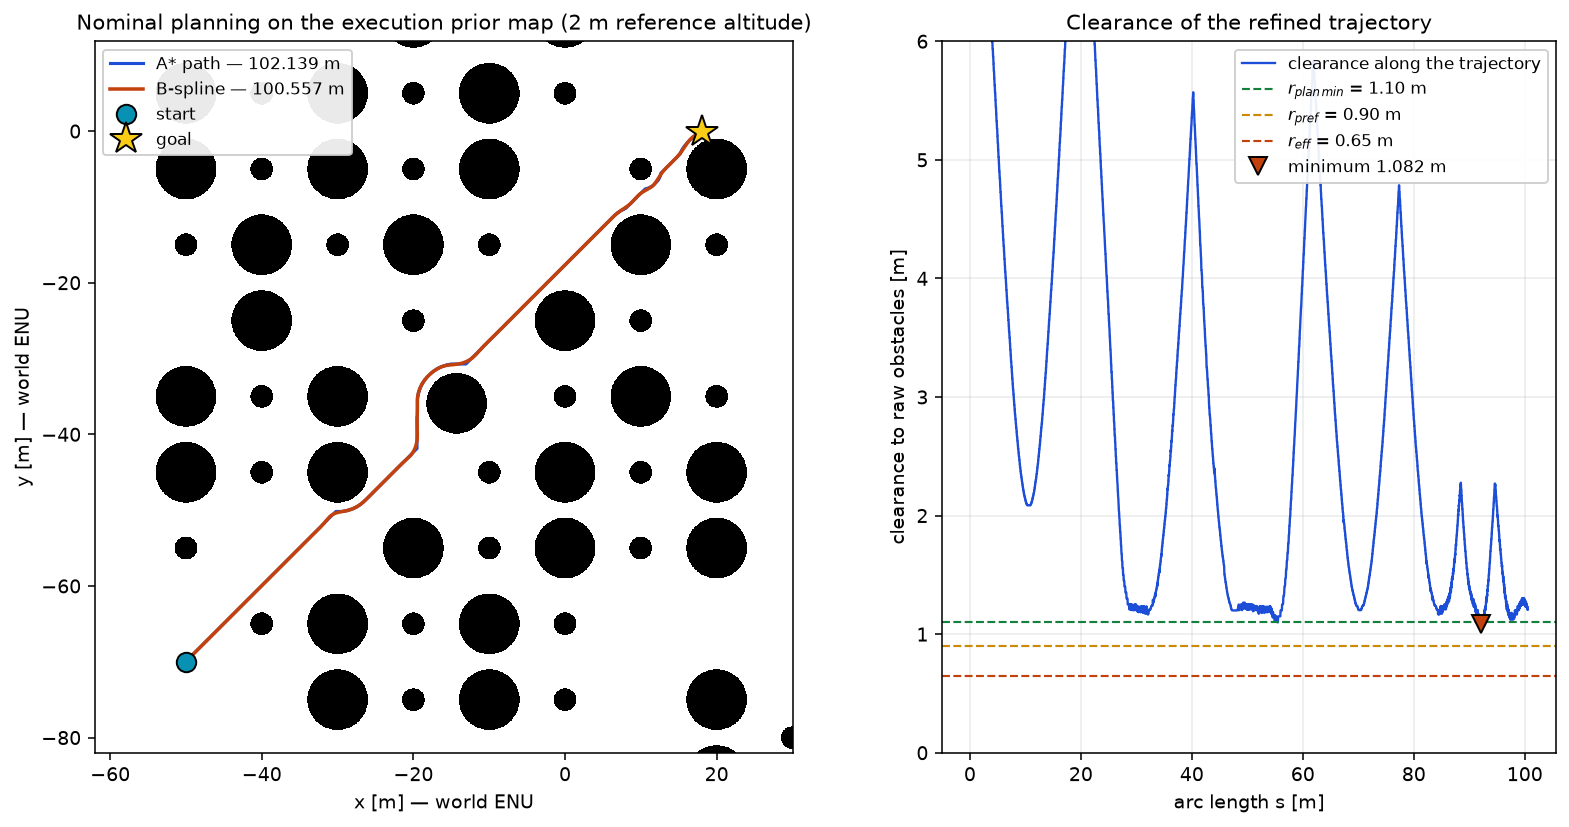
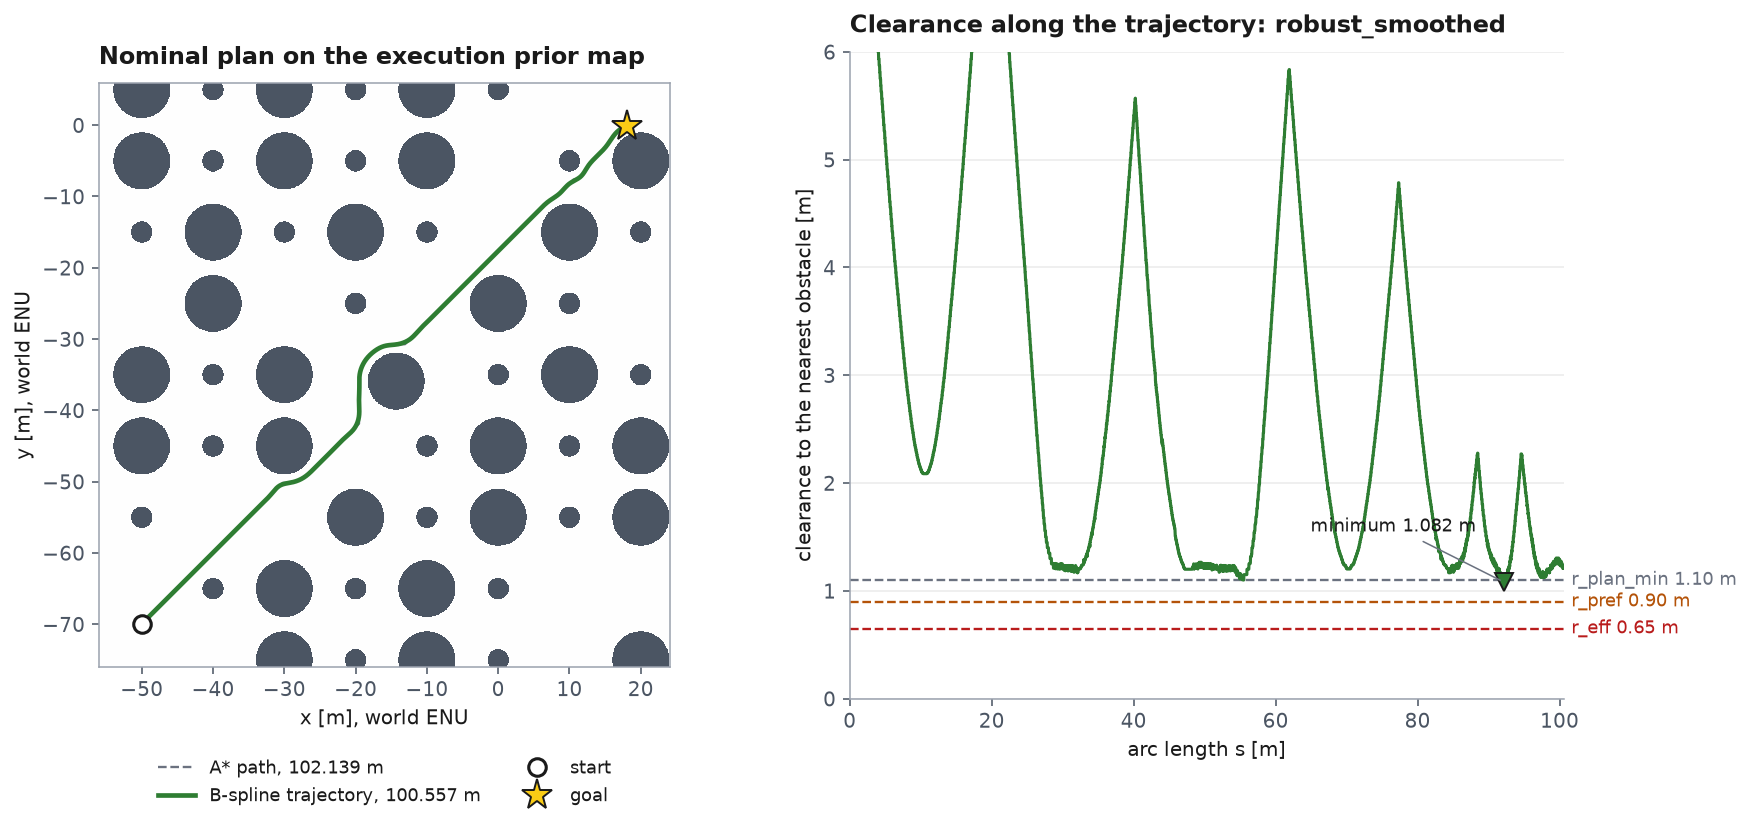
docs(figures): consistent layout and style for the two result figures
Both result figures now share one size, layout and palette (the palette of
architecture.drawio): map on the left with its legend below, profiles on the
right. The README shows them stacked at full width instead of side by side
at 49 % each, where the landscape and portrait images rendered at very
different heights and the small text was unreadable.

- nominal_planning.png: clearance thresholds labelled on the lines instead
  of in a legend; classification in the panel title.
- srr_geometry.png: landscape layout; the right side now shows the refined
  detour's speed and lateral acceleration against v_nominal and a_lat_max,
  taken from the same replanning result as the map.

make_docs_figures.py additionally checks the detour's peak lateral
acceleration and curvature against replan_runtime_metrics.yaml. No result,
planner or runtime code changed.

diff --git a/tools/make_docs_figures.py b/tools/make_docs_figures.py
@@ -8,7 +8,8 @@ produced, so they are auditable rather than opaque:
 1. ``nominal_planning.png`` - the A* path and the refined trajectory on the
    execution prior map, with the clearance profile. Regenerated from the SDF.
 2. ``srr_geometry.png`` - the Stop-Replan-Resume detour, sensed obstacle and
-   rejoin, reproduced offline from the published result bundle.
+   rejoin, with the refined detour's speed and lateral acceleration,
+   reproduced offline from the published result bundle.
 
 Both are derived from the same computations the reproduction tools run, so a
 figure can never drift away from the published numbers without those tools
@@ -43,6 +44,7 @@ sys.path.insert(0, str(REPO_ROOT / "src"))
 import matplotlib  # noqa: E402
 matplotlib.use("Agg")
 import matplotlib.pyplot as plt  # noqa: E402
+from matplotlib.colors import LinearSegmentedColormap  # noqa: E402
 from matplotlib.patches import Circle  # noqa: E402
 from PIL import Image  # noqa: E402
 
@@ -58,11 +60,45 @@ SRR = REPO_ROOT / "results" / "stop_replan_resume"
 CANOPY_M = {"Pine Tree": 1.5, "Oak tree": 4.0}
 SAVE = dict(dpi=140, bbox_inches="tight", metadata={"Software": None})
 
-INK = "#1b2430"
-MUTED = "#6b7785"
-ACCENT = "#c2410c"
-BLUE = "#1d4ed8"
-GREEN = "#15803d"
+# Same palette as docs/figures/architecture.drawio: green is the offline
+# result, blue the Stop-Replan-Resume result, grey an intermediate or a
+# reference, orange what the vehicle sensed.
+INK = "#1A1A1A"
+MUTED = "#6B7280"
+GREEN = "#2E7D32"
+BLUE = "#2F4FC9"
+ORANGE = "#C0501F"
+LIMIT = "#B91C1C"     # hard limit (r_eff, a_lat_max)
+PREF = "#B45309"      # soft target (r_pref)
+MAP_CMAP = LinearSegmentedColormap.from_list("prior_map", ["#4B5563", "#FFFFFF"])
+FIGSIZE = (13.5, 6.0)   # both figures share it, so they line up in the README
+
+plt.rcParams.update({
+    "font.size": 10.5, "axes.titlesize": 12.5, "axes.titleweight": "bold",
+    "axes.titlelocation": "left", "axes.titlepad": 10, "axes.labelsize": 10.5,
+    "axes.edgecolor": "#9CA3AF", "axes.labelcolor": INK, "text.color": INK,
+    "xtick.color": "#4B5563", "ytick.color": "#4B5563",
+    "legend.fontsize": 9.5, "legend.frameon": False,
+    "axes.spines.top": False, "axes.spines.right": False,
+})
+
+
+def _prior_map(ax, image, extent) -> None:
+    ax.imshow(image, cmap=MAP_CMAP, vmin=0, vmax=255, origin="upper",
+              extent=extent, interpolation="nearest")
+    for side in ("top", "right"):
+        ax.spines[side].set_visible(True)
+    ax.set_aspect("equal")
+    ax.set_xlabel("x [m], world ENU")
+    ax.set_ylabel("y [m], world ENU")
+
+
+def _hline(ax, y, color, text, ls="--") -> None:
+    """Reference line labelled at its right end instead of in a legend."""
+    ax.axhline(y, ls=ls, lw=1.2, color=color, zorder=1)
+    ax.annotate(text, xy=(1.0, y), xycoords=("axes fraction", "data"),
+                xytext=(4, 0), textcoords="offset points", va="center",
+                fontsize=9.5, color=color)
 
 
 def build_execution_prior():
@@ -128,46 +164,40 @@ def figure_nominal(path: Path) -> None:
                               sp=T.SpeedParams(1.5, 0.3, 1.0, 1.0))
     tr = sel.selected
 
-    fig = plt.figure(figsize=(13.5, 6.6))
-    gs = fig.add_gridspec(1, 2, width_ratios=[1.15, 1.0], wspace=0.22)
+    fig = plt.figure(figsize=FIGSIZE)
+    gs = fig.add_gridspec(1, 2, width_ratios=[1.0, 1.25], wspace=0.28)
 
     ax = fig.add_subplot(gs[0, 0])
     ox, oy = float(origin[0]), float(origin[1])
-    x1 = ox + geom.width_cells * res
-    y1 = oy + geom.height_cells * res
-    ax.imshow(image, cmap="gray", origin="upper",
-              extent=[ox, x1, oy, y1], interpolation="nearest")
-    ax.plot(xy[:, 0], xy[:, 1], lw=1.6, color=BLUE,
-            label=f"A* path — {P.path_length_metres(a.path_cells, res):.3f} m")
-    ax.plot(tr.samples_xy[:, 0], tr.samples_xy[:, 1], lw=1.8, color=ACCENT,
-            label=f"B-spline — {tr.trajectory_length_m:.3f} m")
-    ax.plot(*start_xy, "o", ms=10, color="#0891b2", mec="k", label="start")
-    ax.plot(*goal_xy, "*", ms=17, color="#facc15", mec="k", label="goal")
-    pad = 12
+    _prior_map(ax, image, [ox, ox + geom.width_cells * res, oy, oy + geom.height_cells * res])
+    ax.plot(xy[:, 0], xy[:, 1], lw=1.2, ls="--", color=MUTED,
+            label=f"A* path, {P.path_length_metres(a.path_cells, res):.3f} m")
+    ax.plot(tr.samples_xy[:, 0], tr.samples_xy[:, 1], lw=2.4, color=GREEN,
+            label=f"B-spline trajectory, {tr.trajectory_length_m:.3f} m")
+    ax.plot(*start_xy, "o", ms=9, color="white", mec=INK, mew=1.6, label="start")
+    ax.plot(*goal_xy, "*", ms=16, color="#FACC15", mec=INK, label="goal")
+    pad = 6
     ax.set_xlim(min(xy[:, 0].min(), start_xy[0]) - pad, max(xy[:, 0].max(), goal_xy[0]) + pad)
     ax.set_ylim(min(xy[:, 1].min(), start_xy[1]) - pad, max(xy[:, 1].max(), goal_xy[1]) + pad)
-    ax.set_aspect("equal")
-    ax.set_xlabel("x [m] — world ENU")
-    ax.set_ylabel("y [m] — world ENU")
-    ax.set_title("Nominal planning on the execution prior map (2 m reference altitude)",
-                 fontsize=11)
-    ax.legend(loc="upper left", fontsize=8.5, framealpha=0.92)
+    ax.set_title("Nominal plan on the execution prior map")
+    ax.legend(loc="upper center", bbox_to_anchor=(0.5, -0.13), ncol=2)
 
     ax2 = fig.add_subplot(gs[0, 1])
-    ax2.plot(tr.s, tr.clearance, lw=1.2, color=BLUE, label="clearance along the trajectory")
-    for val, col, lab in ((r_plan_min, GREEN, f"$r_{{plan\\,min}}$ = {r_plan_min:.2f} m"),
-                          (r_pref, "#ca8a04", f"$r_{{pref}}$ = {r_pref:.2f} m"),
-                          (r_eff, ACCENT, f"$r_{{eff}}$ = {r_eff:.2f} m")):
-        ax2.axhline(val, ls="--", lw=1.1, color=col, label=lab)
-    ax2.plot(tr.s[np.argmin(tr.clearance)], tr.clearance.min(), "v", ms=9,
-             color=ACCENT, mec="k",
-             label=f"minimum {tr.clearance_min_m:.3f} m")
-    ax2.set_xlabel("arc length s [m]")
-    ax2.set_ylabel("clearance to raw obstacles [m]")
+    ax2.plot(tr.s, tr.clearance, lw=1.6, color=GREEN)
+    _hline(ax2, r_plan_min, MUTED, f"r_plan_min {r_plan_min:.2f} m")
+    _hline(ax2, r_pref, PREF, f"r_pref {r_pref:.2f} m")
+    _hline(ax2, r_eff, LIMIT, f"r_eff {r_eff:.2f} m")
+    i_min = int(np.argmin(tr.clearance))
+    ax2.plot(tr.s[i_min], tr.clearance[i_min], "v", ms=9, color=GREEN, mec=INK)
+    ax2.annotate(f"minimum {tr.clearance_min_m:.3f} m", xy=(tr.s[i_min], tr.clearance[i_min]),
+                 xytext=(-14, 26), textcoords="offset points", ha="right", fontsize=9.5,
+                 arrowprops=dict(arrowstyle="-", color=MUTED, lw=0.8))
+    ax2.set_xlim(0, float(tr.s[-1]))
     ax2.set_ylim(0, min(6.0, float(tr.clearance.max()) * 1.05))
-    ax2.set_title("Clearance of the refined trajectory", fontsize=11)
-    ax2.legend(loc="upper right", fontsize=8.5, framealpha=0.92)
-    ax2.grid(alpha=0.25)
+    ax2.set_xlabel("arc length s [m]")
+    ax2.set_ylabel("clearance to the nearest obstacle [m]")
+    ax2.set_title(f"Clearance along the trajectory: {tr.classification}")
+    ax2.grid(axis="y", alpha=0.25)
 
     fig.savefig(path, **SAVE)
     plt.close(fig)
@@ -212,38 +242,52 @@ def figure_srr(path: Path) -> None:
         lateral_half_width=roi.lateral_half_width_m,
         hover_xy=hover_xy, resume_xy=resume_xy, hover_idx=ih, resume_idx=ir)
 
-    fig, ax = plt.subplots(figsize=(9.6, 8.2))
-    ox, oy = float(meta["origin"][0]), float(meta["origin"][1])
-    x1 = ox + geom.width_cells * geom.resolution
-    y1 = oy + geom.height_cells * geom.resolution
-    ax.imshow(image, cmap="gray", origin="upper",
-              extent=[ox, x1, oy, y1], interpolation="nearest")
+    fig = plt.figure(figsize=FIGSIZE)
+    gs = fig.add_gridspec(2, 2, width_ratios=[1.0, 1.25], wspace=0.28, hspace=0.35)
 
-    ax.plot(xs, ys, lw=1.3, ls="--", color=MUTED, label="original mission reference")
-    ax.plot(cand.astar_xy[:, 0], cand.astar_xy[:, 1], lw=1.2, color=BLUE,
-            label=f"local A* detour — {cand.astar_path_length_m:.2f} m")
-    ax.plot(cand.smoothed_xy[:, 0], cand.smoothed_xy[:, 1], lw=2.1, color=ACCENT,
-            label=f"refined detour — {cand.smoothed_length_m:.2f} m, "
-                  f"clearance {cand.clearance_min_m:.3f} m")
-    ax.add_patch(Circle(obs_xy, obs_r, fc="#fb923c", ec="#c2410c", alpha=0.55,
-                        label=f"sensed obstacle (r = {obs_r:.2f} m)"))
+    ax = fig.add_subplot(gs[:, 0])
+    ox, oy = float(meta["origin"][0]), float(meta["origin"][1])
+    _prior_map(ax, image, [ox, ox + geom.width_cells * geom.resolution,
+                           oy, oy + geom.height_cells * geom.resolution])
+    ax.plot(xs, ys, lw=1.4, ls="--", color=GREEN, label="original mission reference")
+    ax.plot(cand.astar_xy[:, 0], cand.astar_xy[:, 1], lw=1.1, color=MUTED,
+            label=f"local A* detour, {cand.astar_path_length_m:.2f} m")
+    ax.plot(cand.smoothed_xy[:, 0], cand.smoothed_xy[:, 1], lw=2.4, color=BLUE,
+            label=f"refined detour, {cand.smoothed_length_m:.2f} m")
+    ax.add_patch(Circle(obs_xy, obs_r, fc="#FDBA74", ec=ORANGE, lw=1.4, alpha=0.75,
+                        label=f"sensed obstacle, r = {obs_r:.2f} m"))
     ax.add_patch(Circle(tuple(gt["centroid_world_xy"]), float(gt["radius_m"]),
                         fc="none", ec=INK, ls=":", lw=1.5,
-                        label=f"ground truth (evaluation only, r = {gt['radius_m']:.1f} m)"))
-    ax.plot(*hover_xy, "o", ms=11, color="#0891b2", mec="k", label="stop / hover")
-    ax.plot(*resume_xy, "*", ms=18, color="#facc15", mec="k", label="resume anchor")
-
-    pad = 13
+                        label=f"ground truth (eval. only), r = {gt['radius_m']:.1f} m"))
+    ax.plot(*hover_xy, "o", ms=9, color="white", mec=INK, mew=1.6, label="stop / hover")
+    ax.plot(*resume_xy, "*", ms=16, color="#FACC15", mec=INK, label="resume anchor")
+    pad = 6
     allx = np.concatenate([cand.smoothed_xy[:, 0], [obs_xy[0], hover_xy[0], resume_xy[0]]])
     ally = np.concatenate([cand.smoothed_xy[:, 1], [obs_xy[1], hover_xy[1], resume_xy[1]]])
     ax.set_xlim(allx.min() - pad, allx.max() + pad)
     ax.set_ylim(ally.min() - pad, ally.max() + pad)
-    ax.set_aspect("equal")
-    ax.set_xlabel("x [m] — world ENU")
-    ax.set_ylabel("y [m] — world ENU")
-    ax.set_title("Stop–Replan–Resume: sensed obstacle, local detour and rejoin\n"
-                 "(geometry reproduced offline from the published run)", fontsize=11)
-    ax.legend(loc="upper left", fontsize=8.4, framealpha=0.93)
+    ax.set_title("Stop–Replan–Resume detour")
+    ax.legend(loc="upper center", bbox_to_anchor=(0.5, -0.13), ncol=2)
+
+    s_d = cand.smoothed_s - cand.smoothed_s[0]
+    sp = R.SPEED_PARAMS
+    axv = fig.add_subplot(gs[0, 1])
+    axv.plot(s_d, cand.smoothed_v, lw=1.6, color=BLUE)
+    _hline(axv, sp.v_nominal, MUTED, f"v_nominal {sp.v_nominal:.1f} m/s")
+    axv.set_ylim(0, sp.v_nominal * 1.25)
+    axv.set_xlim(0, float(s_d[-1]))
+    axv.set_ylabel("speed [m/s]")
+    axv.set_title(f"Refined detour profile: {cand.classification}, "
+                  f"clearance {cand.clearance_min_m:.3f} m")
+    axv.grid(axis="y", alpha=0.25)
+    axa = fig.add_subplot(gs[1, 1], sharex=axv)
+    axa.plot(s_d, np.abs(cand.smoothed_lat_accel), lw=1.6, color=BLUE)
+    _hline(axa, sp.a_lat_max, LIMIT, f"a_lat_max {sp.a_lat_max:.1f} m/s²")
+    axa.set_ylim(0, sp.a_lat_max * 1.35)
+    axa.set_xlabel("arc length along the detour [m]")
+    axa.set_ylabel("|lateral acceleration| [m/s²]")
+    axa.grid(axis="y", alpha=0.25)
+
     fig.savefig(path, **SAVE)
     plt.close(fig)
     return cand
@@ -272,6 +316,8 @@ def main() -> int:
         ("nominal clearance min [m]", tr.clearance_min_m, pub_t["clearance_min_m"]),
         ("SRR detour length [m]", c.smoothed_length_m, pub_s["smoothed_length_m"]),
         ("SRR clearance min [m]", c.clearance_min_m, pub_s["clearance_min_m"]),
+        ("SRR max lateral accel [m/s^2]", c.max_lateral_accel_mps2, pub_s["max_lateral_accel_mps2"]),
+        ("SRR max curvature [1/m]", c.max_curvature_1_per_m, pub_s["max_curvature_1_per_m"]),
     ):
         ok = abs(float(mine) - float(ref)) <= 1e-6
         print(f"  {'OK  ' if ok else 'FAIL'} {label:32s} {float(mine):.6f} vs {float(ref):.6f}")

diff --git a/README.md b/README.md
@@ -103,13 +103,21 @@ classes.** They come from different runs and measure different things.
 | Handover continuity | position jump 0.245 m, yaw jump 11.07° | 2 (reproduced), 3 (flown) |
 | Stop–Replan–Resume run | online replan 0.251 s, the reported internal computation and validation time (`t_total_s`), excluding the preceding loading of inputs; recorded wall-clock span 0.322 s; budget 3 s. Rejoin distance 0.006 m, mission completed, no failsafe, max. tracking error 0.802 m | 3 |
 
-<p>
-  <img src="docs/figures/nominal_planning.png" alt="Nominal planning" width="49%">
-  <img src="docs/figures/srr_geometry.png" alt="Stop-Replan-Resume geometry" width="49%">
-</p>
+**Nominal plan (class 1).** A\* path and B-spline trajectory on the execution
+prior map, and the trajectory's clearance against the three planning radii.
+
+![Nominal planning](docs/figures/nominal_planning.png)
+
+**Stop–Replan–Resume detour (class 2).** The sensed obstacle, the local A\*
+detour and its refinement, and the refined detour's speed and lateral
+acceleration against the planner's limits.
+
+![Stop-Replan-Resume detour](docs/figures/srr_geometry.png)
 
 *Both figures are generated offline by `tools/make_docs_figures.py` from the
-published results. They show computed geometry, not flight recordings.*
+published code and results. The script checks the refined lengths, the minimum
+clearances and the detour's peak lateral acceleration and curvature against the
+published values. They show computed geometry, not flight recordings.*
 
 **Class 4, public runtime validation**
 ([`results/public_runtime_validation/`](results/public_runtime_validation/README.md)).
